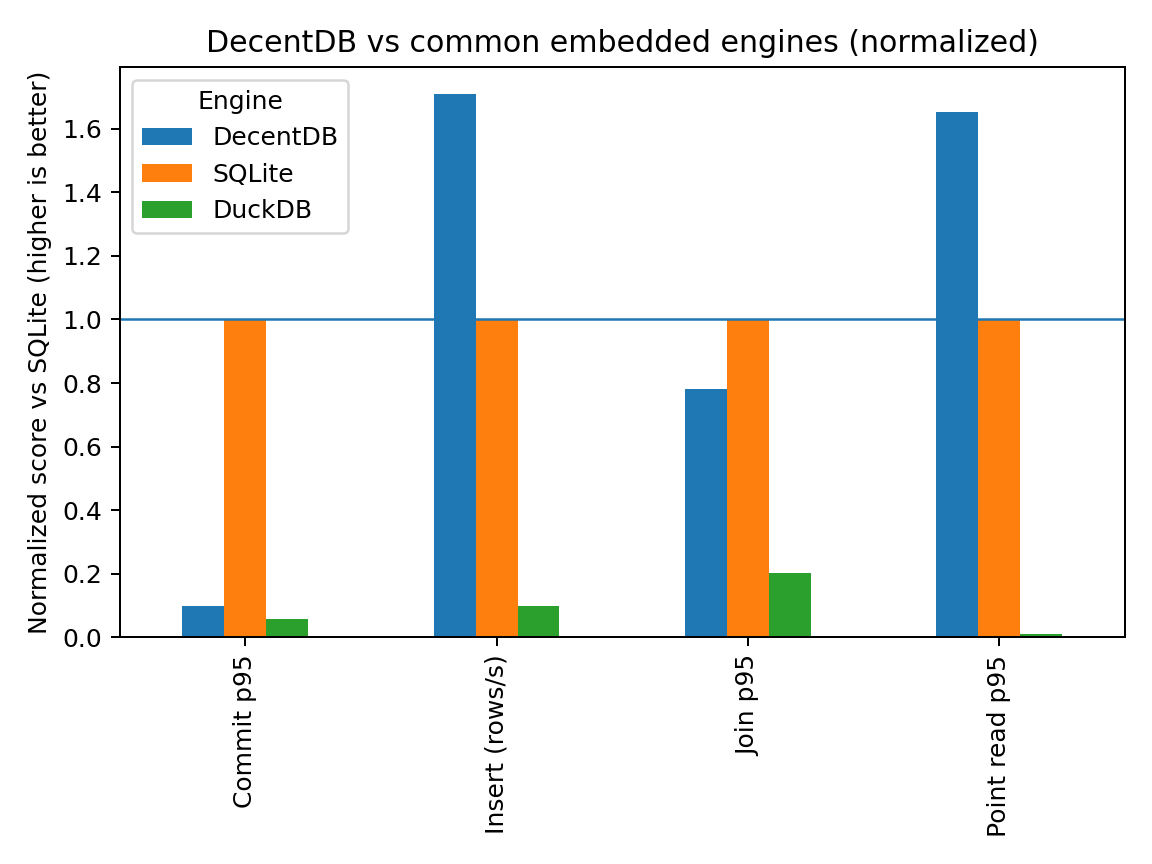
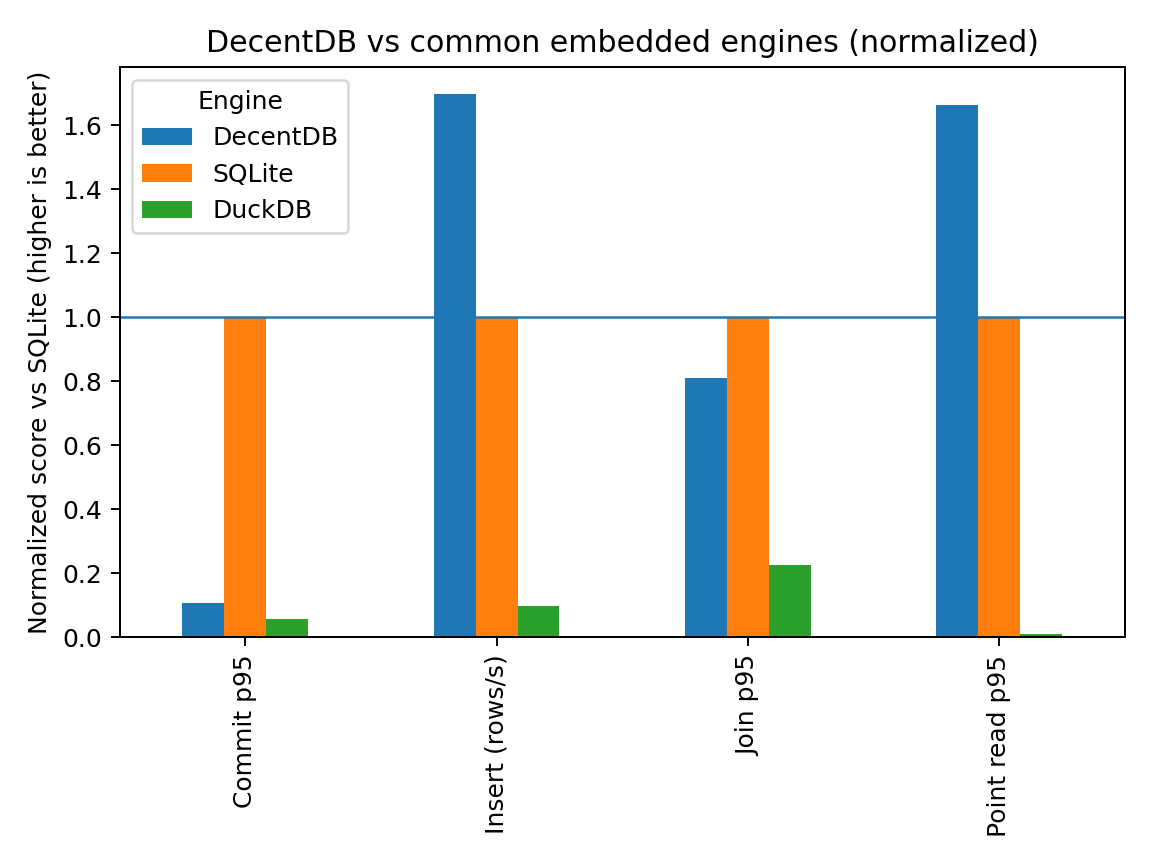
perf: remove wal frame crc32c (bench: 0.09579 -> 0.082635)

diff --git a/design/SPEC.md b/design/SPEC.md
@@ -32,7 +32,7 @@ Current scope (0.x, pre-1.0): single process, multi-threaded readers, single wri
 
 3. **wal/**
    - WAL file append and recovery
-   - Frame checksums, commit markers
+   - Frame trailer (checksum reserved in v5), commit markers
    - WAL index (in-memory map pageId -> latest frame offset for fast reads)
 
 4. **btree/**
@@ -117,6 +117,7 @@ See ADR-0016 for checksum calculation details.
 
 **Format version notes:**
 - v2 adds catalog-encoded column constraints (NOT NULL/UNIQUE/PK/FK) and index metadata (kind + unique flag).
+- v5 removes per-frame WAL CRC32C validation (checksum field reserved, written as zero).
 - v1 databases are not auto-migrated; open fails with `ERR_CORRUPTION` until upgraded.
 
 ### 3.4 Catalog record encoding (v2)
@@ -154,7 +155,7 @@ Each frame appends:
 - `page_id` (u32, valid for page frames)
 - `payload_size` (u32)
 - payload (page image or commit metadata)
-- `frame_checksum` (u64, CRC-32C of header + payload)
+- `frame_checksum` (u64, **reserved**, written as 0 in format v5)
 - `lsn` (u64 monotonically increasing)
 
 **Frame Types:**
@@ -172,9 +173,10 @@ Commit rule:
 - A transaction is committed when a COMMIT frame is durably written.
 - Default durability: `fsync(wal)` on commit.
 
-**Torn Write Detection:**
+**Torn Write Detection (format v5):**
 - Frame header includes `payload_size` for validation
-- Recovery ignores incomplete frames (checksum mismatch or size truncation)
+- Recovery ignores incomplete frames (short reads / size truncation)
+- Frame type and basic invariants are validated (e.g., page_id != 0 for page frames)
 
 ### 4.2 Snapshot reads
 On read transaction start:
@@ -235,7 +237,7 @@ See ADR-0017 for detailed design.
 ### 4.5 Crash recovery
 On open:
 - scan WAL from last checkpoint
-- validate frame checksums
+- validate frame invariants (type, payload_size, lsn)
 - apply frames up to last commit boundary into walIndex view
 - DB becomes readable immediately using WAL overlay
 - optional: perform checkpoint soon after open
@@ -497,7 +499,7 @@ Not planned for 0.x. If pursued:
 ### 13.1 Error codes
 Define error categories:
 - `ERR_IO`: File I/O errors (disk full, permissions, corruption)
-- `ERR_CORRUPTION`: Database corruption detected (checksum mismatch)
+- `ERR_CORRUPTION`: Database corruption detected (invalid frame/header, checksum mismatch when applicable)
 - `ERR_CONSTRAINT`: Constraint violation (FK, unique, NOT NULL)
 - `ERR_TRANSACTION`: Transaction errors (deadlock, timeout)
 - `ERR_SQL`: SQL syntax or semantic errors
@@ -514,7 +516,7 @@ Define error categories:
 ### 13.3 Error messages
 - Include error code, human-readable message, and context
 - For constraint violations: include table/column and violating value
-- For corruption: include page ID and expected vs actual checksum
+- For corruption: include page ID and invariant details (checksum mismatch when applicable)
 
 ---
 

diff --git a/design/adr/0064-wal-frame-checksum-removal.md b/design/adr/0064-wal-frame-checksum-removal.md
@@ -1,0 +1,26 @@
+## WAL Frame Checksum Removal
+**Date:** 2026-02-05  
+**Status:** Accepted
+
+### Decision
+Remove per-frame CRC32C validation for WAL frames in format v5. The checksum field remains reserved in the trailer and is written as zero, but it is no longer computed or validated during recovery.
+
+### Rationale
+- Commit latency is dominated by per-frame CRC32C over full 4KB payloads.
+- SQLite achieves lower commit latency without per-frame checksums.
+- We already have payload-size validation, frame-type validation, and LSN sanity checks; these detect most torn/partial writes.
+
+### Alternatives Considered
+- Keep per-frame CRC32C (current): too expensive for target commit latency.
+- Per-transaction checksum: requires WAL header/salt and additional metadata.
+- Hardware CRC32C (SSE4.2): not portable across platforms without conditional paths.
+- WAL header with salt and lightweight validation: deferred.
+
+### Trade-offs
+- We lose detection of payload corruption that preserves header/trailer structure.
+- Recovery now trusts frame payload content once length/type checks pass.
+- This is a durability/corruption-detection semantic change and requires a format version bump.
+
+### References
+- `design/SQLITE_PERF_GAP_PLAN.md` (Section 1: WAL Frame Format Overhead)
+- `design/SPEC.md` §4.1 (WAL frame format)

diff --git a/design/SQLITE_PERF_GAP_PLAN.md b/design/SQLITE_PERF_GAP_PLAN.md
@@ -924,3 +924,19 @@ DecentDB vs SQLite (commit latency gap: **14.61×**)
 
 **Decision:** Reverted due to commit latency regression (primary metric).  
 **Notes:** Possible syscall overhead from `writev` path offset the copy savings in this workload.
+
+### 4) Remove per-frame WAL CRC32C (format v5) (Section 1: WAL Frame Format Overhead)
+**Change:** Stop computing/validating per-frame CRC32C. The checksum field is now reserved and written as zero in format v5.  
+**Bench (run_id: 20260205_192941)**  
+
+| Metric | Before | After | Notes |
+|---|---:|---:|---|
+| commit_p95_ms | 0.09579 | 0.082635 | **Improved** (~13.7%) |
+| read_p95_ms | 0.001177 | 0.001187 | +0.85% (within noise) |
+| join_p95_ms | 0.4711145 | 0.4578895 | Improved |
+| insert_rows_per_sec | 196,183.58 | 195,730.08 | -0.23% (within noise) |
+| db_size_mb (bytes/1e6) | 0.086016 | 0.086016 | Unchanged |
+
+**SQLite reference (same run):** commit_p95_ms = 0.008917 → gap **9.27×**  
+**Correctness/Durability:** Per-frame corruption detection removed; recovery now validates frame invariants only. WAL format version bumped to v5 (new DBs only).  
+**Follow-ups:** Next medium effort: remove per-frame LSN trailer (ADR required) or release wal lock before fsync (ADR required).
